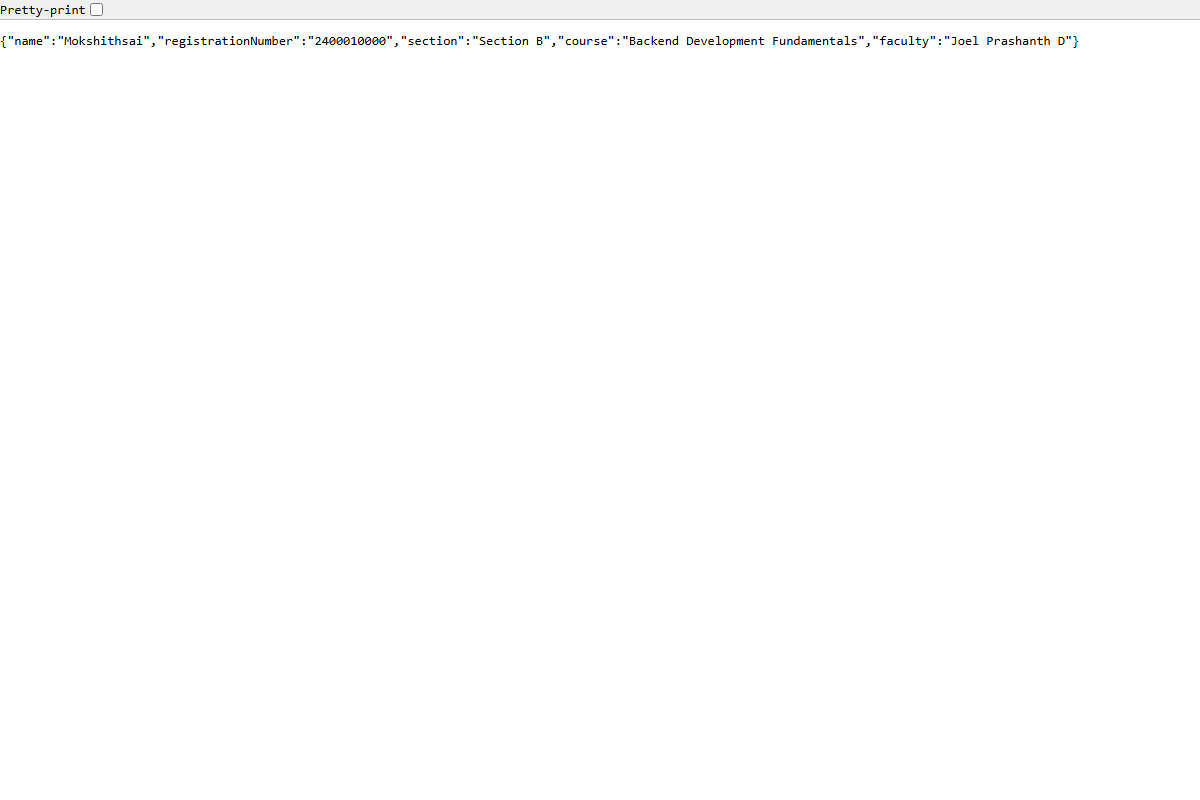
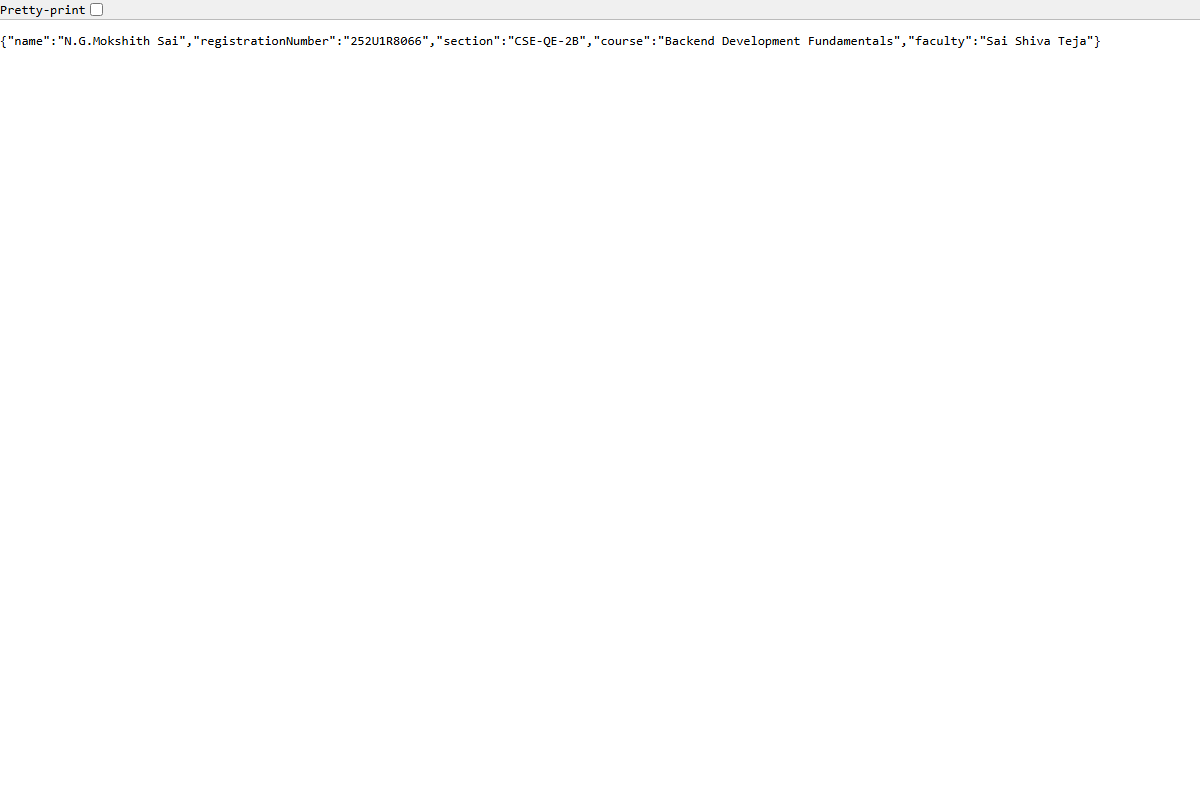
docs: update student credentials, faculty name, GitHub repo URL, and regenerated route screenshots

Changed region(s): [[0.0617, 0.0312, 0.925, 0.0625]]

diff --git a/lab-01/server.js b/lab-01/server.js
@@ -1,7 +1,7 @@
 /**
  * Lab 1 - Task 4, 5, 6, 7: Express Server
  * Course: Backend Development Fundamentals · Year II Term II · Aurora
- * Faculty: Joel Prashanth D
+ * Faculty: Sai Shiva Teja
  */
 
 const express = require('express');
@@ -11,11 +11,11 @@ const PORT = process.env.PORT || 3000;
 
 // Student details
 const studentInfo = {
-  name: process.env.STUDENT_NAME || 'Mokshithsai',
-  registrationNumber: process.env.STUDENT_REG_NO || '2400010000',
-  section: process.env.STUDENT_SECTION || 'Section B',
+  name: process.env.STUDENT_NAME || 'N.G.Mokshith Sai',
+  registrationNumber: process.env.STUDENT_REG_NO || '252U1R8066',
+  section: process.env.STUDENT_SECTION || 'CSE-QE-2B',
   course: 'Backend Development Fundamentals',
-  faculty: 'Joel Prashanth D'
+  faculty: process.env.FACULTY_NAME || 'Sai Shiva Teja'
 };
 
 // Middleware: Request & Status Code Logger (Task 7)

diff --git a/lab-01/README.md b/lab-01/README.md
@@ -1,9 +1,10 @@
 # Lab 1: Node.js and Express server
 
-**Mokshithsai** · **2400010000** · **Section B**  
+**N.G.Mokshith Sai** · **252U1R8066** · **CSE-QE-2B**  
 **Course:** Backend Development Fundamentals (Year II · Term II)  
 **Institution:** Aurora  
-**Faculty:** Joel Prashanth D  
+**Faculty:** Sai Shiva Teja  
+**GitHub Repository:** [https://github.com/mokshithsai1/BACKEND_DEVOLPMENT_LAB_REPORT_MOKSHITH_SAI-](https://github.com/mokshithsai1/BACKEND_DEVOLPMENT_LAB_REPORT_MOKSHITH_SAI-)  
 
 ---
 
@@ -35,9 +36,10 @@ You can configure the server using environment variables (optional). Create a `.
 PORT=3000
 
 # Student Details
-STUDENT_NAME=Mokshithsai
-STUDENT_REG_NO=2400010000
-STUDENT_SECTION=Section B
+STUDENT_NAME=N.G.Mokshith Sai
+STUDENT_REG_NO=252U1R8066
+STUDENT_SECTION=CSE-QE-2B
+FACULTY_NAME=Sai Shiva Teja
 ```
 > **Security Rule:** Never commit real secrets or `.env` files to Git. The `.gitignore` file is configured to exclude all `.env` files.
 
@@ -117,7 +119,7 @@ When initializing the Node.js project using `npm init -y`, npm generates a stand
 | `"main"` | The primary entry point file of the application that gets executed when the package is required or started (e.g., `"server.js"`). |
 | `"scripts"` | A dictionary of custom CLI shortcuts and lifecycle commands executed via `npm run <script-name>` (e.g., `"start": "node server.js"`). |
 | `"keywords"` | An array of search terms and categories that describe the application or library. |
-| `"author"` | The creator or maintainer of the project (`"Mokshithsai"`). Can include name, email, and URL. |
+| `"author"` | The creator or maintainer of the project (`"N.G.Mokshith Sai"`). Can include name, email, and URL. |
 | `"license"` | The software license under which the codebase is distributed (e.g., `"ISC"` or `"MIT"`), declaring open-source permissions. |
 | `"dependencies"` | Production dependencies required at runtime (e.g., `"express": "^4.21.2"`). Managed automatically by npm. |
 

diff --git a/README.md b/README.md
@@ -1,11 +1,12 @@
 # Backend Development Fundamentals — Course Repository
 
-**Student Name:** Mokshithsai  
-**Registration Number:** 2400010000  
-**Section:** Section B  
+**Student Name:** N.G.Mokshith Sai  
+**Registration Number:** 252U1R8066  
+**Section:** CSE-QE-2B  
 **Academic Year / Term:** Year II · Term II  
 **Institution:** Aurora  
-**Faculty In-Charge:** Joel Prashanth D  
+**Faculty In-Charge:** Sai Shiva Teja  
+**GitHub Repository:** [https://github.com/mokshithsai1/BACKEND_DEVOLPMENT_LAB_REPORT_MOKSHITH_SAI-](https://github.com/mokshithsai1/BACKEND_DEVOLPMENT_LAB_REPORT_MOKSHITH_SAI-)  
 
 ---
 
